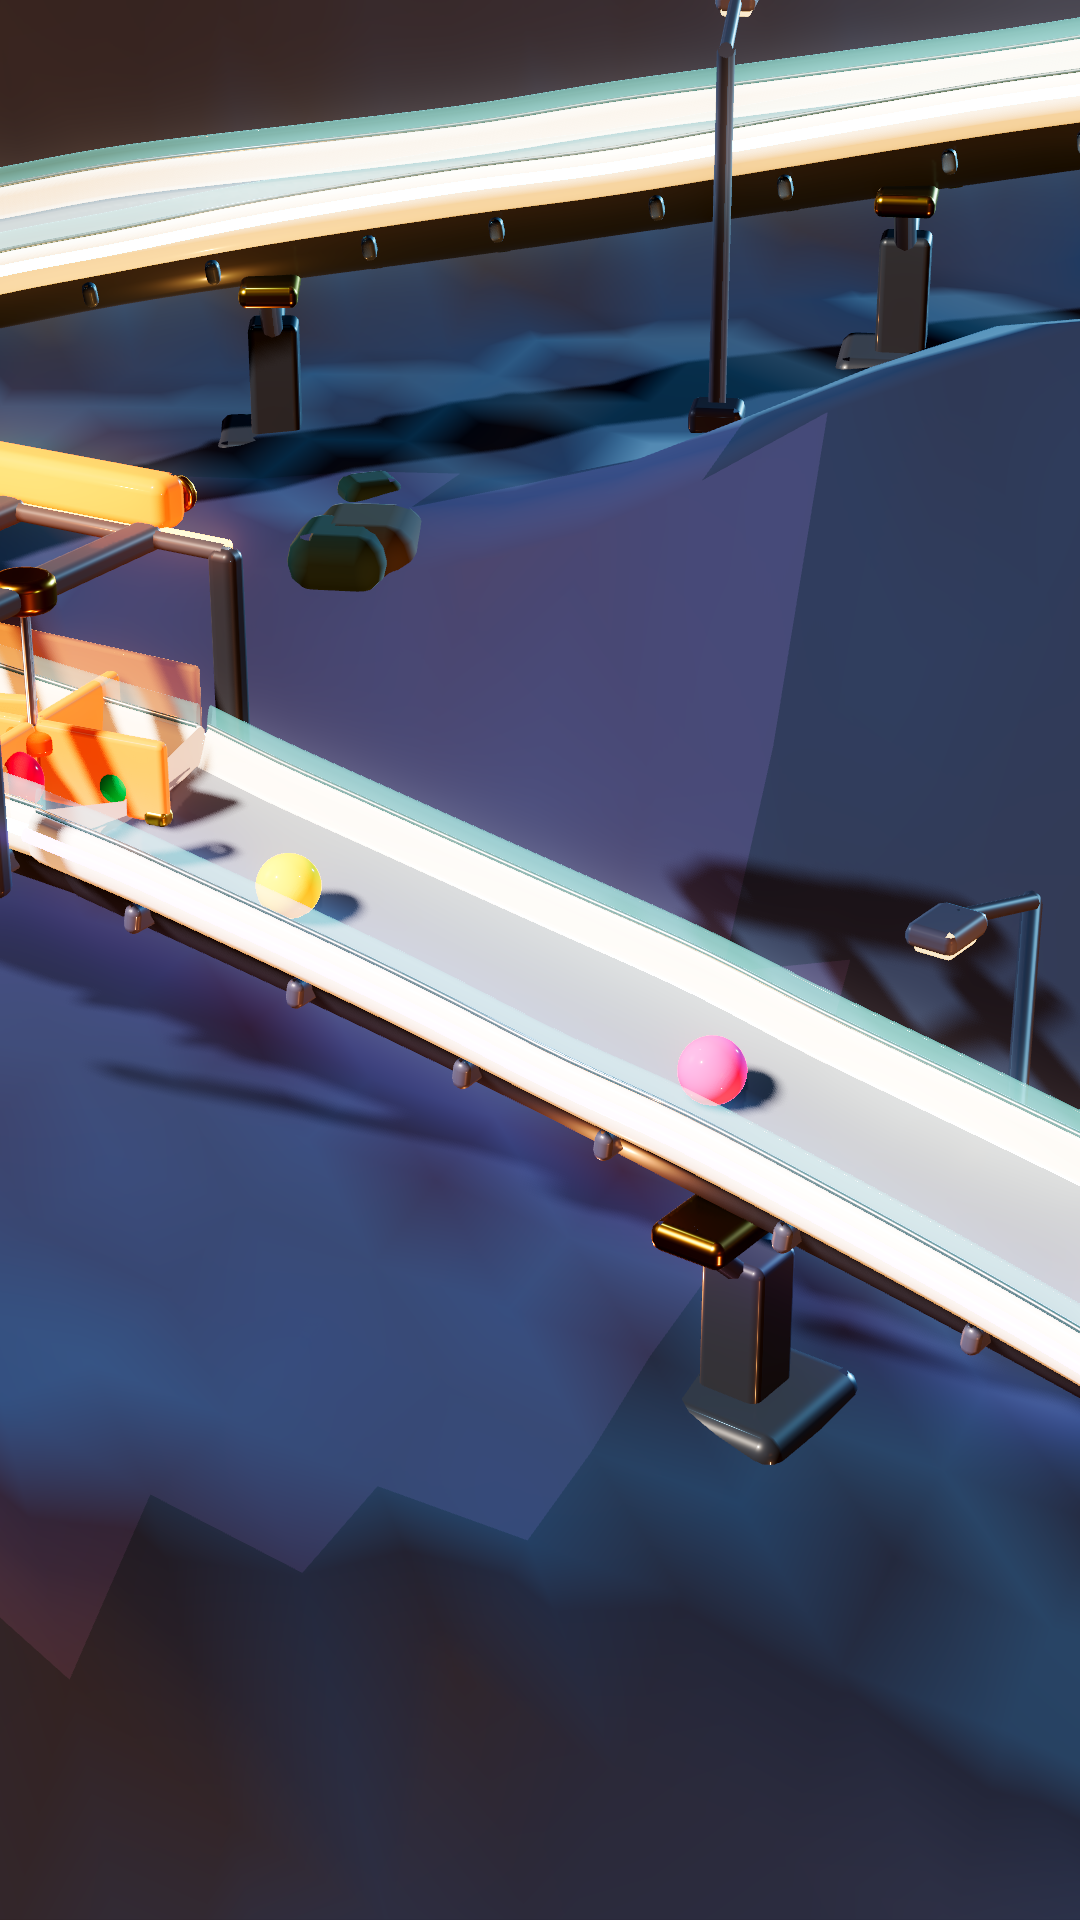
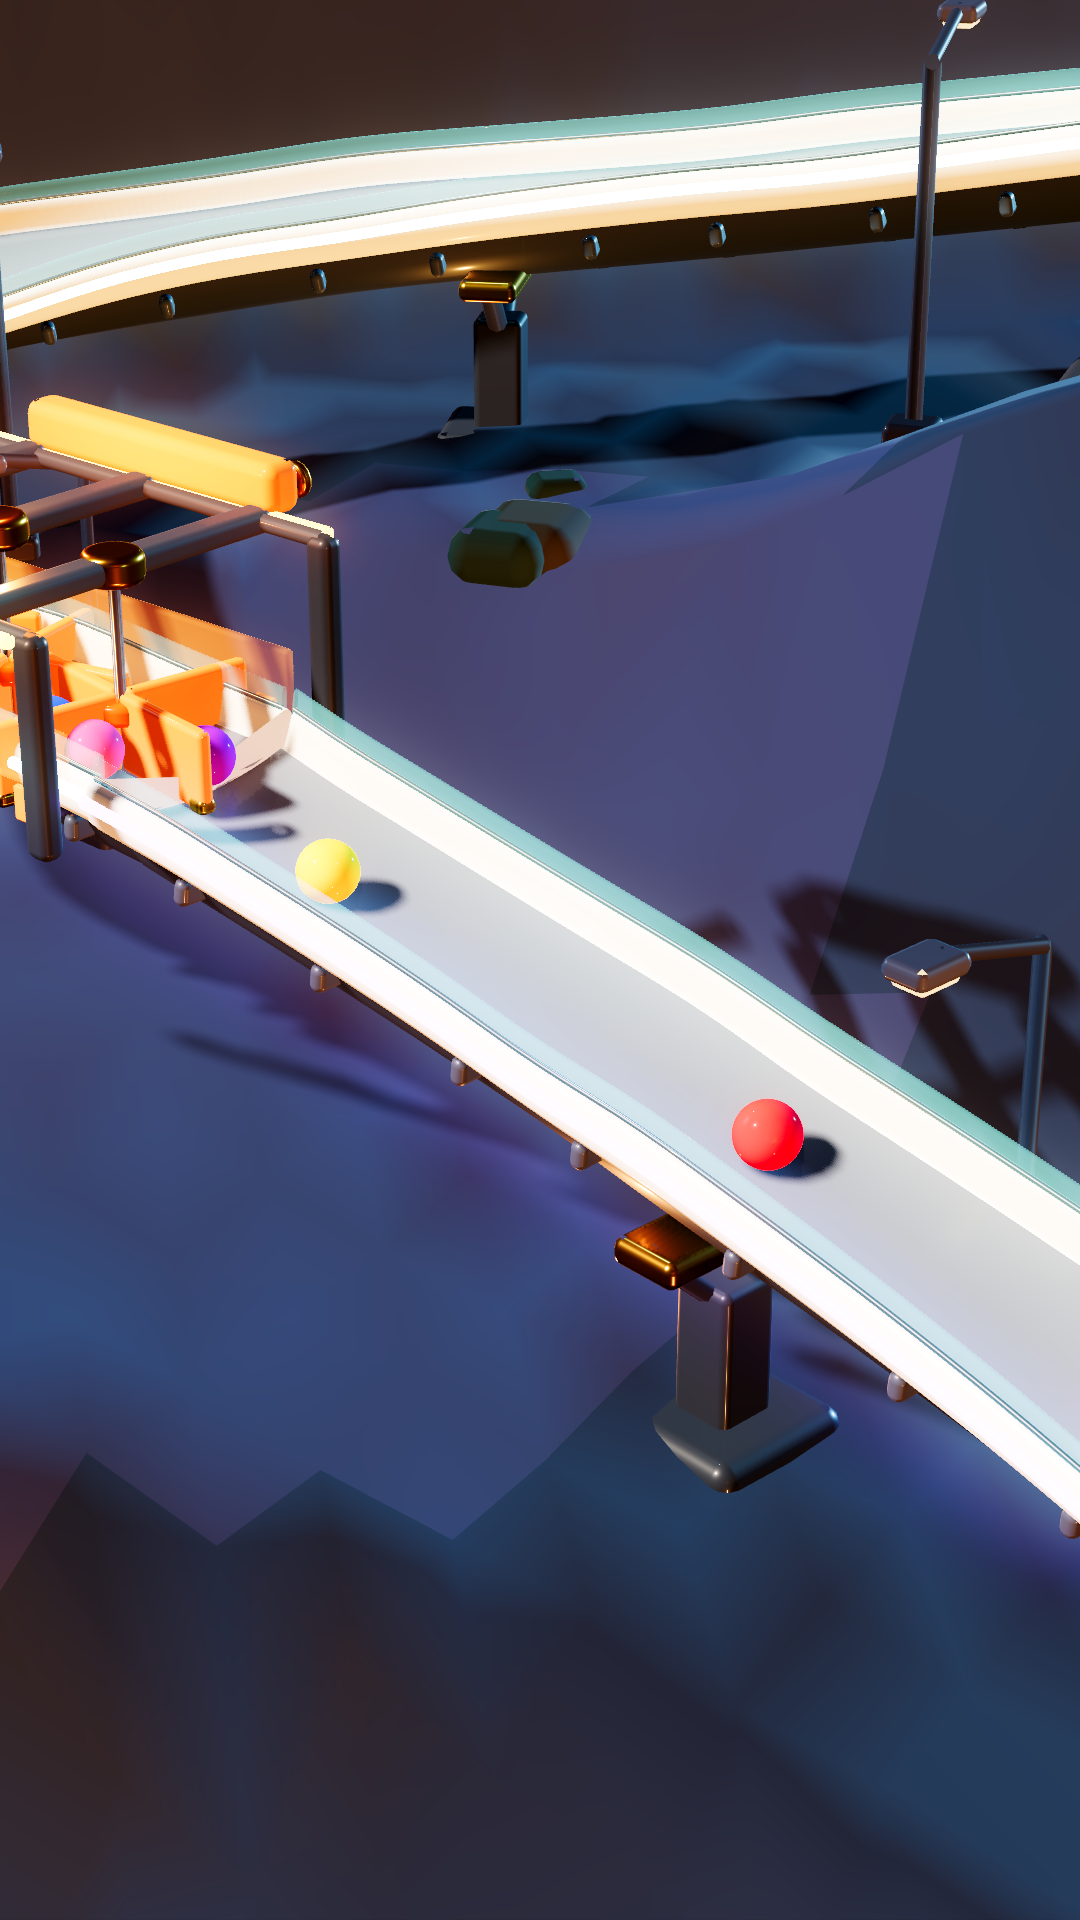
sloped-race: render the corrected real race
`output/sloped_race_v1/real_race_v11.mp4` - 1080x1920, 60 fps, 1245 frames,
20.75 s, h264, no audio stream. Seed 83, from the authoritative replay only;
Godot never calls `stepSimulation`, and the replay's state digest is the one
the forty determinism repeats agree on.

The render had to be brought back into step with the physics, because two parts
had moved and the scene's own table still had them where they were:

  * the stud row is drawn on the launch at sample 5, not on the recorded `mix`
    node 1.2 units into leg1;
  * the shuffle wheel is drawn at all. It is new geometry - one four-blade
    wheel at launch sample 32, the same mechanism as the obstacle's three,
    dressed in the start's chrome and pearl rather than the obstacle's amber
    because it is not the race's set piece. `sloped_race_scene` turns it from
    the replay's own actuator pose, the way it turns the obstacle's, so the
    drawn blade and the colliding blade cannot drift apart.

A drawn part in the wrong place is a marble bouncing off nothing, so
`tests/test_sloped_render.py` now pins the three places these numbers are
written down twice - `sloped.course`, `course_machine.gd` and the replay keys -
against each other.

`docs/validation/sloped_race_v1/terrain.json` is regenerated from the rebuilt
scene. The terrain bench is cut from all seven runs' paths, so orange's tail
moving put the committed dump 0.0015 out at one lattice point; that is a real
[…]

diff --git a/tests/test_sloped_render.py b/tests/test_sloped_render.py
@@ -1,0 +1,84 @@
+"""What the physics does and what the render draws have to be the same course.
+
+Not a rendering test - Godot is not run here. These are the places where a
+number is written down twice, once in Python and once in GDScript, and where
+the two drifting apart shows up in the video as a marble bouncing off nothing.
+"""
+
+from __future__ import annotations
+
+import re
+from pathlib import Path
+
+import pytest
+
+from sloped import layout
+from sloped.course import MIXER_SAMPLE, SHUFFLE_SAMPLE, sloped_course
+
+GODOT = Path(__file__).resolve().parents[1] / "godot"
+MACHINE_GD = GODOT / "assets" / "marble_machine" / "course" / "course_machine.gd"
+LAYOUT_GD = GODOT / "assets" / "marble_machine" / "course" / "course_layout.gd"
+MODULES_GD = GODOT / "assets" / "marble_machine" / "course" / "course_modules.gd"
+SCENE_GD = GODOT / "scripts" / "sloped_race_scene.gd"
+
+
+def _int_assignment(text: str, name: str) -> int:
+    match = re.search(rf"var {name} *:= *(\d+)", text)
+    assert match, f"{name} is not assigned in the GDScript"
+    return int(match.group(1))
+
+
+def test_the_render_places_the_mixer_and_the_wheel_where_the_physics_has_them():
+    """Both moved in V1.1, and the render's own table still said `mix`."""
+    text = MACHINE_GD.read_text(encoding="utf-8")
+    assert _int_assignment(text, "mixer_sample") == MIXER_SAMPLE
+    assert _int_assignment(text, "shuffle_sample") == SHUFFLE_SAMPLE
+    # ...and on the launch run, not on leg1's recorded `mix` node.
+    assert "Modules.mixer(palette), launch[mixer_sample]" in text
+    assert "Modules.shuffle(palette), launch[shuffle_sample]" in text
+
+
+def test_the_render_has_a_shuffle_wheel_to_place():
+    modules = MODULES_GD.read_text(encoding="utf-8")
+    assert "static func shuffle(palette)" in modules
+    assert 'root.name = "Shuffle"' in modules
+    assert 'spinner.name = "Spinner0"' in modules
+
+
+def test_the_scene_turns_the_shuffle_wheel_from_the_replay():
+    """A drawn wheel that does not turn with its collider is a wheel a marble
+    passes through."""
+    scene = SCENE_GD.read_text(encoding="utf-8")
+    assert '["Shuffle", "shuffle", 1]' in scene
+    assert '"key": "%s.wheel%d_blade0"' in scene
+    # And the key it builds is the one the replay actually carries.
+    machine = sloped_course()
+    shuffle = machine.modules["shuffle"]
+    names = [actuator.name for actuator in shuffle.local_actuators()]
+    assert "wheel0_blade0" in names
+
+
+def test_the_replay_carries_a_pose_for_every_drawn_wheel():
+    machine = sloped_course()
+    keys = {
+        f"{module.id}.{actuator.name}"
+        for module in machine
+        for actuator in module.local_actuators()
+    }
+    for expected in ("shuffle.wheel0_blade0", "obstacle.wheel0_blade0"):
+        assert expected in keys, sorted(k for k in keys if "wheel" in k)
+
+
+def test_oranges_tail_heights_agree_between_python_and_gdscript():
+    """The one control-point change of the session, written down twice."""
+    text = LAYOUT_GD.read_text(encoding="utf-8")
+    controls = layout.run("orange")["controls"]
+    for x, y, z in controls[6:9]:
+        needle = f"Vector3({x:.2f}, {y:.4f}, {z:.2f})"
+        assert needle in text, f"{needle} is not in course_layout.gd"
+
+
+@pytest.mark.parametrize("module_id", ["mixer", "shuffle"])
+def test_both_start_modules_stand_on_the_launch(module_id):
+    machine = sloped_course()
+    assert machine.modules[module_id].run.id == "launch"

diff --git a/tools/sloped_integrate.py b/tools/sloped_integrate.py
@@ -59,7 +59,7 @@ RENDER_SCENE = "res://scenes/SlopedRaceRender.tscn"
 OUT_DIR = os.path.join("output", "sloped_race_v1")
 STILLS_DIR = os.path.join("docs", "validation", "sloped_race_v1")
 FRAMES_DIR = os.path.join(OUT_DIR, "frames")
-VIDEO_PATH = os.path.join(OUT_DIR, "real_race.mp4")
+VIDEO_PATH = os.path.join(OUT_DIR, "real_race_v11.mp4")
 
 WIDTH = 1080
 HEIGHT = 1920
